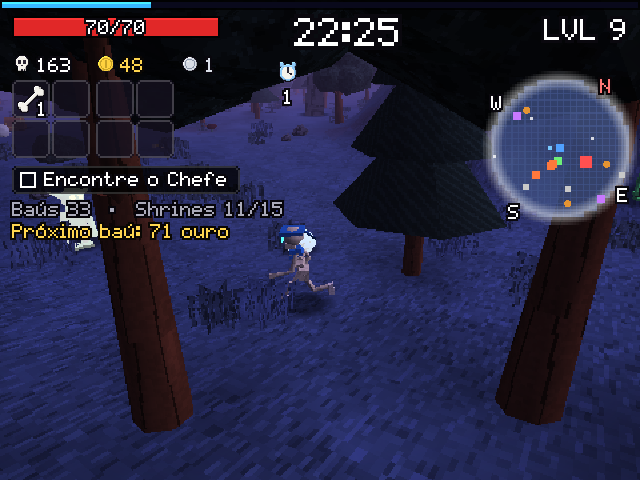
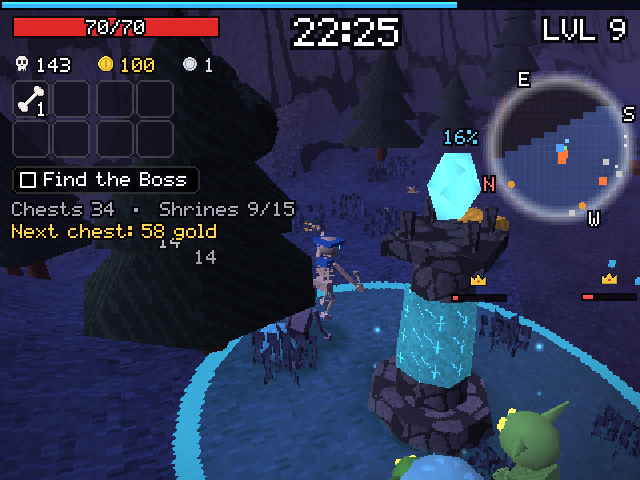
PortMaster cover + English screenshots; docs images renamed to English
Claude-Session: https://claude.ai/code/session_012LUGmV68JwyArHvSy1zQbs

diff --git a/src/main_desktop.cpp b/src/main_desktop.cpp
@@ -123,32 +123,95 @@ static void showcase(const std::string& file, const std::string& name, const std
     }
     u.panel(u.W * 0.5f - u.textW(name) - 10, 4, u.textW(name) * 2 + 20, 30, Col(10, 8, 16, 170), Col(255, 214, 80, 120));
     u.text(u.W * 0.5f, 8, name, 2, Col(255, 214, 80), AL_CENTER);
-    u.text(u.W - 6, u.H - 12, "Omni Bonk Mobile - render em tempo real (GLES 3.0)", 1, Col(255, 255, 255, 150), AL_RIGHT);
+    u.text(u.W - 6, u.H - 12, "Omni Bonk - real-time render (GLES 3.0)", 1, Col(255, 255, 255, 150), AL_RIGHT);
     gR.uiFlush();
     glFinish();
   }
   shot(file);
 }
 
+
+// ---------------------------------------------------------------- PortMaster cover (640x480): heroes vs the horde, with the logo
+static void coverShot() {
+  Game& g = gApp.game;
+  RunConfig c; c.map = MAP_FOREST; c.tier = 0; c.character = 0; c.seed = 31; c.godMode = true;
+  g.start(c);
+  g.enemies.clear(); g.inters.clear(); g.pickups.clear(); g.banners.clear(); g.texts.clear(); g.parts.clear();
+  g.fovDeg = 50; g.stormK = 0;
+  World& w = g.world;
+  w.pal.fogDensity *= 0.5f;
+  w.props.erase(std::remove_if(w.props.begin(), w.props.end(), [&](const PropInst& p) { return fabsf(p.pos.x) < 9 && p.pos.z > -14 && p.pos.z < 20 && !p.grass; }), w.props.end());
+  w.buildGrid(); g.worldGen++;
+  float h0 = w.T.height(0, 0);
+  g.P.pos = v3(0, -100, 0);
+  g.camEye = v3(0, h0 + 1.5f, -8.5f); g.camTgt = v3(0, h0 + 2.7f, 6.f);
+  gR.set.renderScale = 1.f; gR.set.vignette = 0.5f;
+  u32 rs = 12345; auto rnd = [&]() { rs = rs * 1664525u + 1013904223u; return (rs >> 8) / 16777216.f; };
+  struct Spawn { int model; float scale, x, z, yaw, t; int clip; };
+  std::vector<Spawn> sp;
+  auto addEnemy = [&](int e, float x, float z, float k = 1.f) { const EnemyDef& d = gEnemies[e]; sp.push_back({d.model, d.scale * k, x, z, PI + (rnd() - 0.5f) * 0.9f, rnd(), CL_MOVE}); };
+  const int horde[] = {E_SLIME, E_GOBLIN, E_BEE, E_GOBLIN_STRONG, E_BOOMER, E_GHOUL, E_SKELETON, E_SKELETON_ARMORED, E_GHOST, E_ZOMBIE, E_GOBLIN_TANK, E_MUMMY, E_HEAD};
+  for (int i = 0; i < 70; i++) {
+    float a = (rnd() - 0.5f) * 2.0f, r = 4.5f + rnd() * 15.f;
+    addEnemy(horde[(int)(rnd() * 13) % 13], sinf(a) * r * 1.15f, 3.5f + cosf(a) * r * 0.95f);
+  }
+  addEnemy(E_B_BIGBOB, 4.2f, 15.f, 1.f);
+  // the five heroes, center one in front
+  for (int i = 0; i < C_COUNT; i++) {
+    int off = i - 2; const CharDef& cd = gChars[i == 2 ? 0 : (i < 2 ? i + 1 : i)];
+    sp.push_back({cd.model, 1.75f, off * 2.35f, fabsf((float)off) * 0.9f - 1.4f, PI - off * 0.12f, 0.25f, CL_IDLE});
+  }
+  std::sort(sp.begin(), sp.end(), [](const Spawn& a, const Spawn& b) { return a.z > b.z; });
+  for (int pass = 0; pass < 2; pass++) {
+    gApp.ui.begin(W, H, 1.f, gApp.plat, 0.016f);
+    gR.beginFrame(W, H, 0.016f);
+    g.render(gR);
+    for (auto& e : sp) {
+      const ModelInfo& mi = gModels.info[e.model];
+      v3 p(e.x, w.T.height(e.x, e.z) - mi.minY * e.scale + (mi.minY < -0.01f ? 0.25f : 0.f), e.z);
+      gR.model(e.model, modelFrame(e.model, e.clip, e.t, 12), p, q4::yaw(e.yaw), v3(e.scale, e.scale, e.scale), 0, Col(255, 255, 255, 0));
+      gR.decal(v3(p.x, w.T.height(e.x, e.z), p.z), mi.radius * e.scale * 1.1f + 0.3f, SP_SHADOW, Col(0, 0, 0, 120));
+    }
+    gR.renderScene(true);
+    UI& u = gApp.ui;
+    float cx = u.W * 0.5f;
+    // logo: layered shadow, gold face
+    const char* logo = "OMNI BONK"; float sc = 5.5f, ly = 8;
+    for (int k = 4; k >= 1; k--) u.text(cx + k, ly + k + 1, logo, sc, Col(30, 8, 50, 255), AL_CENTER);
+    for (int dx = -1; dx <= 1; dx++) for (int dy = -1; dy <= 1; dy++) u.text(cx + dx, ly + dy, logo, sc, Col(20, 8, 30, 255), AL_CENTER);
+    u.text(cx, ly, logo, sc, Col(255, 214, 80), AL_CENTER);
+    u.text(cx, ly + 12 * sc + 4, "SURVIVE THE BONK!", 1.5f, Col(255, 255, 255), AL_CENTER);
+    // ribbon + badges
+    u.panel(0, u.H - 28, u.W, 28, Col(14, 8, 28, 225), Col(255, 214, 80, 160));
+    u.text(8, u.H - 24, "FAN TRIBUTE TO MEGABONK", 1, Col(255, 214, 80));
+    u.text(8, u.H - 13, "Non-commercial  -  original assets", 1, Col(200, 190, 230));
+    u.panel(u.W - 110, u.H - 23, 102, 18, Col(60, 150, 70, 245), Col(255, 255, 255, 190));
+    u.text(u.W - 59, u.H - 18, "READY TO RUN", 1, Col(255, 255, 255), AL_CENTER);
+    gR.uiFlush();
+    glFinish();
+  }
+  shot("cover");
+}
+
 static void artSheets() {
   auto E = [](int e, float sc = 1, int clip = CL_MOVE, float t = 0.33f) { const EnemyDef& d = gEnemies[e]; return ShowItem{d.model, clip, t, sc * d.scale, d.name, Col(255, 255, 255, 0)}; };
-  showcase("art_01_inimigos_forest", "Inimigos - Forest", {E(E_SLIME), E(E_GOBLIN), E(E_BEE), E(E_GOBLIN_STRONG), E(E_BOOMER), E(E_GOLEM), E(E_GOBLIN_TANK), E(E_GHOUL), E(E_SKELETON), E(E_SKELETON_ARMORED)}, MAP_FOREST, 0, 2.6f);
-  showcase("art_02_inimigos_desert", "Inimigos - Desert", {E(E_TUMBLEBONE), E(E_MUMMY), E(E_WISP), E(E_CACTUS), E(E_SCORPION), E(E_SKELETON_DUSTY), E(E_SKELETON_ARMORED_DUSTY), E(E_SCORPION_BIG), E(E_MUMMY_TANK), E(E_MUMMY_ANCIENT)}, MAP_DESERT, 0, 2.8f);
-  showcase("art_03_inimigos_graveyard", "Inimigos - Graveyard e especiais", {E(E_GHOST), E(E_HEAD), E(E_ZOMBIE), E(E_GHOST_GREATER), E(E_GHOST_PURPLE), E(E_GHOST_RED), E(E_SKELETON_GOLD), E(E_SKELETON_XP), E(E_SWARMGHOST)}, MAP_GRAVEYARD, 0, 2.8f);
-  showcase("art_04_minichefes", "Minichefes", {E(E_MB_STONEGOLEM), E(E_MB_CHUNKHAM), E(E_MB_SANDGOLEM), E(E_MB_SCORPIONUSSY), E(E_MB_GHOSTHAM), E(E_MB_SKELETONKING)}, MAP_FOREST, 1, 5.0f);
-  showcase("art_05_chefes", "Chefes", {E(E_B_LILBARK, 1, CL_IDLE), E(E_B_CHADBARK), E(E_B_BARKVADER), E(E_B_LILANUBIS), E(E_B_ANUBRUH), E(E_B_JUGEANUBIS), E(E_B_BIGBOB), E(E_B_GHOSTKING, 0.75f)}, MAP_FOREST, 2, 6.0f);
+  showcase("art_01_enemies_forest", "Enemies - Forest", {E(E_SLIME), E(E_GOBLIN), E(E_BEE), E(E_GOBLIN_STRONG), E(E_BOOMER), E(E_GOLEM), E(E_GOBLIN_TANK), E(E_GHOUL), E(E_SKELETON), E(E_SKELETON_ARMORED)}, MAP_FOREST, 0, 2.6f);
+  showcase("art_02_enemies_desert", "Enemies - Desert", {E(E_TUMBLEBONE), E(E_MUMMY), E(E_WISP), E(E_CACTUS), E(E_SCORPION), E(E_SKELETON_DUSTY), E(E_SKELETON_ARMORED_DUSTY), E(E_SCORPION_BIG), E(E_MUMMY_TANK), E(E_MUMMY_ANCIENT)}, MAP_DESERT, 0, 2.8f);
+  showcase("art_03_enemies_graveyard", "Enemies - Graveyard and specials", {E(E_GHOST), E(E_HEAD), E(E_ZOMBIE), E(E_GHOST_GREATER), E(E_GHOST_PURPLE), E(E_GHOST_RED), E(E_SKELETON_GOLD), E(E_SKELETON_XP), E(E_SWARMGHOST)}, MAP_GRAVEYARD, 0, 2.8f);
+  showcase("art_04_minibosses", "Minibosses", {E(E_MB_STONEGOLEM), E(E_MB_CHUNKHAM), E(E_MB_SANDGOLEM), E(E_MB_SCORPIONUSSY), E(E_MB_GHOSTHAM), E(E_MB_SKELETONKING)}, MAP_FOREST, 1, 5.0f);
+  showcase("art_05_bosses", "Bosses", {E(E_B_LILBARK, 1, CL_IDLE), E(E_B_CHADBARK), E(E_B_BARKVADER), E(E_B_LILANUBIS), E(E_B_ANUBRUH), E(E_B_JUGEANUBIS), E(E_B_BIGBOB), E(E_B_GHOSTKING, 0.75f)}, MAP_FOREST, 2, 6.0f);
   std::vector<ShowItem> chars;
   for (int i = 0; i < C_COUNT; i++) chars.push_back({gChars[i].model, CL_IDLE, 0.25f, 1.6f, std::string(gChars[i].name) + " / " + gWeapons[gChars[i].weapon].name, Col(255, 255, 255, 0)});
-  showcase("art_06_personagens", "Personagens jogaveis", chars, MAP_FOREST, 0, 3.4f);
+  showcase("art_06_characters", "Playable characters", chars, MAP_FOREST, 0, 3.4f);
   // stepped animation strip: one character run cycle, consecutive 12 fps frames
   std::vector<ShowItem> strip;
   for (int f = 0; f < 6; f++) strip.push_back({M_NINJA, CL_MOVE, f / 12.f, 1.6f, fmt("frame %d - %.0f ms", f, f * 1000 / 12.f), Col(255, 255, 255, 0)});
-  showcase("art_07_animacao_stepped", "Animacao stepped 12 FPS - corrida do Ninja", strip, MAP_FOREST, 0, 2.6f);
+  showcase("art_07_stepped_animation", "Stepped 12 FPS animation - Ninja run cycle", strip, MAP_FOREST, 0, 2.6f);
   auto I = [](int m, const char* n, Col ta = Col(255, 255, 255, 0), int clip = CL_IDLE, float t = 0.3f) { return ShowItem{m, clip, t, 1.f, n, ta}; };
-  showcase("art_08_baus_shrines_torres", "Baus, shrines e torres de upgrade", {I(M_CHEST, "Baú"), I(M_CHEST_GOLD, "Baú Dourado"), I(M_CHEST, "Baú aberto", Col(255, 255, 255, 0), CL_SPECIAL, 1.0f), I(M_SHRINE_CHARGE, "Charge Shrine"), I(M_SHRINE_GREED, "Greed Shrine"), I(M_SHRINE_CURSED, "Cursed Shrine"), I(M_SHRINE_CHALLENGE, "Challenge Shrine"), I(M_MOAI, "Moai"), I(M_SHADY, "Shady Guy", hexc(kRarityColor[R_LEGENDARY], 0)), I(M_MICROWAVE, "Microwave"), I(M_SHRINE_SUCC, "Shrine of Succ")}, MAP_FOREST, 0, 3.4f);
-  showcase("art_09_portais_potes_chaves", "Portais, potes e chaves", {I(M_PORTAL_BOSS, "Portal do Chefe"), I(M_PORTAL_EXIT, "Portal de Saída"), I(M_POT, "Pote"), I(M_POT_BIG, "Pote Grande"), I(M_POT_SILVER, "Pote de Prata"), I(M_PUMPKIN, "Abóbora"), I(M_TUMBLEWEED, "Tumbleweed"), I(M_CRYPT_KEY, "Chave da Cripta"), I(M_ALTAR, "Altar")}, MAP_GRAVEYARD, 0, 3.6f);
+  showcase("art_08_chests_shrines_towers", "Chests, shrines and upgrade towers", {I(M_CHEST, "Chest"), I(M_CHEST_GOLD, "Golden Chest"), I(M_CHEST, "Open Chest", Col(255, 255, 255, 0), CL_SPECIAL, 1.0f), I(M_SHRINE_CHARGE, "Charge Shrine"), I(M_SHRINE_GREED, "Greed Shrine"), I(M_SHRINE_CURSED, "Cursed Shrine"), I(M_SHRINE_CHALLENGE, "Challenge Shrine"), I(M_MOAI, "Moai"), I(M_SHADY, "Shady Guy", hexc(kRarityColor[R_LEGENDARY], 0)), I(M_MICROWAVE, "Microwave"), I(M_SHRINE_SUCC, "Shrine of Succ")}, MAP_FOREST, 0, 3.4f);
+  showcase("art_09_portals_pots_keys", "Portals, pots and keys", {I(M_PORTAL_BOSS, "Boss Portal"), I(M_PORTAL_EXIT, "Exit Portal"), I(M_POT, "Pot"), I(M_POT_BIG, "Big Pot"), I(M_POT_SILVER, "Silver Pot"), I(M_PUMPKIN, "Pumpkin"), I(M_TUMBLEWEED, "Tumbleweed"), I(M_CRYPT_KEY, "Crypt Key"), I(M_ALTAR, "Altar")}, MAP_GRAVEYARD, 0, 3.6f);
   auto Pp = [](int m, const char* n, float s = 1) { return ShowItem{m, CL_IDLE, 0, s, n, Col(255, 255, 255, 0)}; };
-  showcase("art_10_pickups_powerups", "Pickups e powerups", {Pp(M_XP_SMALL, "XP", 3.4f), Pp(M_XP_MED, "XP+", 3.2f), Pp(M_XP_BIG, "XP++", 3.0f), Pp(M_GOLD_COIN, "Ouro", 3.2f), Pp(M_SILVER_COIN, "Prata", 3.2f), Pp(M_BORGAR, "Borgar", 3.0f), Pp(M_PU_SHIELD, "Escudo", 2.4f), Pp(M_PU_CLOCK, "Relógio", 2.4f), Pp(M_PU_GOLD, "Ouro x2", 2.4f), Pp(M_PU_RAGE, "Fúria", 2.4f), Pp(M_PU_MAGNET, "Ímã", 2.4f), Pp(M_PU_NUKE, "Bomba", 2.4f)}, MAP_DESERT, 0, 1.9f);
+  showcase("art_10_pickups_powerups", "Pickups and powerups", {Pp(M_XP_SMALL, "XP", 3.4f), Pp(M_XP_MED, "XP+", 3.2f), Pp(M_XP_BIG, "XP++", 3.0f), Pp(M_GOLD_COIN, "Gold", 3.2f), Pp(M_SILVER_COIN, "Silver", 3.2f), Pp(M_BORGAR, "Borgar", 3.0f), Pp(M_PU_SHIELD, "Shield", 2.4f), Pp(M_PU_CLOCK, "Clock", 2.4f), Pp(M_PU_GOLD, "Gold x2", 2.4f), Pp(M_PU_RAGE, "Rage", 2.4f), Pp(M_PU_MAGNET, "Magnet", 2.4f), Pp(M_PU_NUKE, "Bomb", 2.4f)}, MAP_DESERT, 0, 1.9f);
   // UI atlas (icons + font) and texture layers
   writePng(outDir + "/art_11_atlas_icones_fonte.png", gR.atlas.px.data(), ATLAS_SIZE, ATLAS_SIZE, false);
   std::vector<u8> layers; artBuildLayers(layers);
@@ -195,14 +258,14 @@ static void iconShot() {
 static void uiShots() {
   App& a = gApp;
   a.selMap = MAP_FOREST; a.selChar = C_NINJA; a.scr = SCR_TITLE; for (int i = 0; i < 240; i++) a.updateMenuGame(1 / 30.f);
-  frame(1 / 30.f, 3); shot("ui_01_titulo");
-  a.scr = SCR_CHARS; a.selChar = C_NINJA; frame(1 / 30.f, 2); shot("ui_02_personagens");
-  a.scr = SCR_MAP; a.selMap = MAP_FOREST; a.selTier = 1; frame(1 / 30.f, 2); shot("ui_03_mapa_tier_tempo");
-  a.scr = SCR_SETTINGS; a.settingsTab = 0; frame(1 / 30.f, 2); shot("ui_04_config_jogo");
-  a.settingsTab = 1; frame(1 / 30.f, 2); shot("ui_05_config_graficos");
-  a.scr = SCR_CATALOG; a.catTab = 2; frame(1 / 30.f, 2); shot("ui_06_catalogo_itens");
-  a.catTab = 0; frame(1 / 30.f, 2); shot("ui_07_catalogo_armas");
-  a.scr = SCR_SHOP; frame(1 / 30.f, 2); shot("ui_08_loja");
+  frame(1 / 30.f, 3); shot("ui_01_title");
+  a.scr = SCR_CHARS; a.selChar = C_NINJA; frame(1 / 30.f, 2); shot("ui_02_characters");
+  a.scr = SCR_MAP; a.selMap = MAP_FOREST; a.selTier = 1; frame(1 / 30.f, 2); shot("ui_03_map_tier_time");
+  a.scr = SCR_SETTINGS; a.settingsTab = 0; frame(1 / 30.f, 2); shot("ui_04_settings_game");
+  a.settingsTab = 1; frame(1 / 30.f, 2); shot("ui_05_settings_graphics");
+  a.scr = SCR_CATALOG; a.catTab = 2; frame(1 / 30.f, 2); shot("ui_06_catalog_items");
+  a.catTab = 0; frame(1 / 30.f, 2); shot("ui_07_catalog_weapons");
+  a.scr = SCR_SHOP; frame(1 / 30.f, 2); shot("ui_08_shop");
 }
 
 // ---------------------------------------------------------------- gamepad scenario (handheld UI)
@@ -217,53 +280,53 @@ static void padScenario() {
   App& a = gApp;
   a.testMode = false; a.set.vibration = false;
   a.selMap = MAP_FOREST; a.selChar = C_FOX; a.scr = SCR_TITLE; for (int i = 0; i < 240; i++) a.updateMenuGame(1 / 30.f);
-  padFrames(4); padLog("title"); shot("pad_01_titulo");
-  press(PB_DOWN); press(PB_DOWN); press(PB_DOWN); press(PB_LEFT); padLog("title: 3x down, left"); shot("pad_02_titulo_config");
-  press(PB_A); padFrames(6); padLog("settings"); shot("pad_03_config");
+  padFrames(4); padLog("title"); shot("pad_01_title");
+  press(PB_DOWN); press(PB_DOWN); press(PB_DOWN); press(PB_LEFT); padLog("title: 3x down, left"); shot("pad_02_title_config");
+  press(PB_A); padFrames(6); padLog("settings"); shot("pad_03_settings");
   for (int i = 0; i < 3; i++) press(PB_DOWN);
-  press(PB_RIGHT); padLog("settings: adjust"); shot("pad_04_config_ajuste");
+  press(PB_RIGHT); padLog("settings: adjust"); shot("pad_04_settings_adjust");
   for (int i = 0; i < 9; i++) press(PB_DOWN);
-  padLog("settings: scrolled"); shot("pad_05_config_rolagem");
-  press(PB_R1); padFrames(4); padLog("settings: R1 tab"); shot("pad_06_config_aba2");
-  press(PB_R1); padFrames(4); shot("pad_07_config_controles");
+  padLog("settings: scrolled"); shot("pad_05_settings_scroll");
+  press(PB_R1); padFrames(4); padLog("settings: R1 tab"); shot("pad_06_settings_tab2");
+  press(PB_R1); padFrames(4); shot("pad_07_settings_controls");
   press(PB_B); padFrames(6); padLog("back to title");
-  press(PB_DOWN); press(PB_A); padFrames(6); padLog("catalog"); shot("pad_08_catalogo");
+  press(PB_DOWN); press(PB_A); padFrames(6); padLog("catalog"); shot("pad_08_catalog");
   press(PB_R1); press(PB_R1); press(PB_DOWN); for (int i = 0; i < 9; i++) press(PB_DOWN); press(PB_RIGHT); press(PB_RIGHT);
-  padLog("catalog: items scrolled"); shot("pad_09_catalogo_itens");
-  press(PB_R1); press(PB_DOWN); press(PB_DOWN); for (int i = 0; i < 20; i++) press(PB_DOWN, 2, 2); padLog("catalog: enemies"); shot("pad_10_catalogo_inimigos");
+  padLog("catalog: items scrolled"); shot("pad_09_catalog_items");
+  press(PB_R1); press(PB_DOWN); press(PB_DOWN); for (int i = 0; i < 20; i++) press(PB_DOWN, 2, 2); padLog("catalog: enemies"); shot("pad_10_catalog_enemies");
   press(PB_B); padFrames(6);
-  press(PB_DOWN); press(PB_DOWN); press(PB_A); padFrames(6); padLog("shop"); shot("pad_11_loja");
+  press(PB_DOWN); press(PB_DOWN); press(PB_A); padFrames(6); padLog("shop"); shot("pad_11_shop");
   press(PB_B); padFrames(6);
-  press(PB_DOWN); press(PB_DOWN); press(PB_DOWN); press(PB_A); padFrames(6); padLog("about"); shot("pad_12_sobre"); press(PB_RIGHT); press(PB_A); padFrames(6); padLog("credits"); shot("pad_12b_creditos"); press(PB_B); padFrames(4);
+  press(PB_DOWN); press(PB_DOWN); press(PB_DOWN); press(PB_A); padFrames(6); padLog("about"); shot("pad_12_about"); press(PB_RIGHT); press(PB_A); padFrames(6); padLog("credits"); shot("pad_12b_credits"); press(PB_B); padFrames(4);
   press(PB_B); padFrames(6);
-  press(PB_DOWN); press(PB_DOWN); press(PB_DOWN); press(PB_RIGHT); press(PB_A); padFrames(6); padLog("quit dialog"); shot("pad_13_sair");
+  press(PB_DOWN); press(PB_DOWN); press(PB_DOWN); press(PB_RIGHT); press(PB_A); padFrames(6); padLog("quit dialog"); shot("pad_13_quit");
   press(PB_A); padFrames(6); padLog("quit dialog: no");
-  press(PB_A); padFrames(8); padLog("chars"); shot("pad_14_personagens");
-  press(PB_RIGHT); press(PB_RIGHT); padFrames(30); padLog("chars: 2x right"); shot("pad_15_personagens_calcium");
-  press(PB_A); padFrames(8); padLog("map"); shot("pad_16_mapa");
+  press(PB_A); padFrames(8); padLog("chars"); shot("pad_14_characters");
+  press(PB_RIGHT); press(PB_RIGHT); padFrames(30); padLog("chars: 2x right"); shot("pad_15_characters_calcium");
+  press(PB_A); padFrames(8); padLog("map"); shot("pad_16_map");
   press(PB_DOWN); press(PB_RIGHT); press(PB_A); press(PB_DOWN); press(PB_RIGHT); press(PB_RIGHT); padLog("map: tier2, time +2"); 
-  press(PB_DOWN); shot("pad_17_mapa_tempo");
+  press(PB_DOWN); shot("pad_17_map_time");
   press(PB_START); padFrames(20); padLog("game start");
   a.game.cfg.godMode = true;
   gPad.ly = -1; padFrames(40); gPad.buttons |= PB_A; padFrames(3); gPad.buttons &= ~PB_A; gPad.rx = 0.8f; padFrames(25); gPad.rx = 0; padFrames(30); gPad.ly = 0;
-  padLog("game: moved"); shot("pad_18_jogo_inicio");
+  padLog("game: moved"); shot("pad_18_game_start");
   a.game.autoPilot = true; for (int i = 0; i < 30 * 150; i++) { a.game.update(1 / 30.f); if (a.game.state != GS_PLAY) { a.game.pendingLevels = 0; a.game.state = GS_PLAY; } }
   a.game.autoPilot = false; a.game.state = GS_PLAY; a.game.pendingLevels = 0; padFrames(6);
-  padLog("game: 2.5 min"); shot("pad_19_jogo_hud");
-  press(PB_START); padFrames(16); padLog("pause"); shot("pad_20_pausa");
+  padLog("game: 2.5 min"); shot("pad_19_game_hud");
+  press(PB_START); padFrames(16); padLog("pause"); shot("pad_20_pause");
   press(PB_RIGHT); padLog("pause: right"); press(PB_B); padFrames(6); padLog("pause: B resumes");
-  press(PB_Y); padFrames(16); padLog("map (Y)"); shot("pad_21_mapa_completo");
+  press(PB_Y); padFrames(16); padLog("map (Y)"); shot("pad_21_full_map");
   press(PB_B); padFrames(6); padLog("map: B closes");
   Game& g = a.game;
   g.genLevelOffers(); g.pendingLevels = 1; g.state = GS_LEVELUP; gPad.buttons |= PB_A; padFrames(4); gPad.buttons &= ~PB_A; padFrames(14); padLog("levelup (A mash locked)"); shot("pad_22_level_up");
-  press(PB_RIGHT); padLog("levelup: right"); shot("pad_23_level_up_foco"); press(PB_A); padFrames(4); padLog("levelup: picked");
+  press(PB_RIGHT); padLog("levelup: right"); shot("pad_23_level_up_focus"); press(PB_A); padFrames(4); padLog("levelup: picked");
   g.state = GS_PLAY; for (auto& it : g.inters) if (it.type == I_CHEST && !it.used) { g.openChest(it, true); break; }
-  g.chestAnim = 2; padFrames(16); padLog("chest"); shot("pad_24_bau"); press(PB_A); padFrames(4); padLog("chest: taken");
+  g.chestAnim = 2; padFrames(16); padLog("chest"); shot("pad_24_chest"); press(PB_A); padFrames(4); padLog("chest: taken");
   g.state = GS_PLAY; g.genShrineOffers(false); g.state = GS_SHRINE; padFrames(16); shot("pad_25_shrine"); press(PB_A); padFrames(4); padLog("shrine: picked");
   for (auto& it : g.inters) if (it.type == I_SHADY) { g.curInter = (int)(&it - &g.inters[0]); g.P.gold = 5000; g.state = GS_SHOP; break; }
   padFrames(16); padLog("shady"); shot("pad_26_shady"); press(PB_B); padFrames(4); padLog("shady: B exits");
-  g.banner("Qualidade automática", "FPS 31 - escala de render 65%", Col(255, 214, 80), 3.f); padFrames(12); shot("pad_27_banner");
-  g.state = GS_DEAD; g.deathT = 0; padFrames(50); padLog("dead"); shot("pad_28_fim");
+  g.banner(tr("Auto quality"), fmt(tr("FPS %.0f - render scale %d%%"), 31.f, 65), Col(255, 214, 80), 3.f); padFrames(12); shot("pad_27_banner");
+  g.state = GS_DEAD; g.deathT = 0; padFrames(50); padLog("dead"); shot("pad_28_end");
   press(PB_RIGHT); press(PB_A); padFrames(10); padLog("end: menu");
 }
 
@@ -316,7 +379,7 @@ static void gameShots(int map, int tier, int ch, const std::string& tag, float s
   a.game.state = GS_PLAY; a.game.autoPilot = true;
   frame(1 / 30.f, 4);
   a.game.autoPilot = false; a.game.state = GS_PLAY; a.game.pendingLevels = 0; a.game.P.xp = 0; frame(1 / 60.f, 1);
-  shot("jogo_" + tag);
+  shot("game_" + tag);
 }
 
 static void balance(int map, int ch, float minutes, u32 seed) {
@@ -387,6 +450,7 @@ int main(int argc, char** argv) {
   else if (scenario == "perf") perfScenario(bmap, bchar, bmin);
   else if (scenario == "art") artSheets();
   else if (scenario == "icon") iconShot();
+  else if (scenario == "cover") coverShot();
   else if (scenario == "balance") balance(bmap, bchar, bmin, seed);
   else if (scenario == "smoke") { startGame(bmap, 0, bchar, true, seed); simGame(gApp.game, 5); frame(1 / 30.f, 2); shot("smoke"); }
   else if (scenario == "game") {
@@ -401,12 +465,12 @@ int main(int argc, char** argv) {
     Game& g = a.game; g.autoPilot = false; g.state = GS_PLAY;
     g.genLevelOffers(); g.state = GS_LEVELUP; frame(1 / 30.f, 2); shot("ui_09_level_up");
     g.state = GS_PLAY; for (auto& it : g.inters) if (it.type == I_CHEST && !it.used) { g.openChest(it, true); break; }
-    g.chestAnim = 2; frame(1 / 30.f, 2); shot("ui_10_bau");
+    g.chestAnim = 2; frame(1 / 30.f, 2); shot("ui_10_chest");
     g.state = GS_PLAY; g.genShrineOffers(false); g.state = GS_SHRINE; frame(1 / 30.f, 2); shot("ui_11_charge_shrine");
-    g.state = GS_PAUSE; a.showMap = false; frame(1 / 30.f, 2); shot("ui_12_pausa_build");
-    a.showMap = true; frame(1 / 30.f, 2); shot("ui_13_mapa_completo"); a.showMap = false;
-    a.set.dpsMeter = true; g.state = GS_PLAY; frame(1 / 30.f, 3); shot("ui_14_hud_dps_contadores");
-    g.state = GS_DEAD; g.deathT = 2; frame(1 / 30.f, 2); shot("ui_15_fim_de_run");
+    g.state = GS_PAUSE; a.showMap = false; frame(1 / 30.f, 2); shot("ui_12_pause_build");
+    a.showMap = true; frame(1 / 30.f, 2); shot("ui_13_full_map"); a.showMap = false;
+    a.set.dpsMeter = true; g.state = GS_PLAY; frame(1 / 30.f, 3); shot("ui_14_hud_dps_counters");
+    g.state = GS_DEAD; g.deathT = 2; frame(1 / 30.f, 2); shot("ui_15_end_of_run");
   }
   LOGI("done");
   return 0;

diff --git a/README.md b/README.md
@@ -4,13 +4,13 @@ Roguelike de sobrevivência em 3D para Android, inspirado no **Megabonk** (vedin
 
 > Projeto de fã, sem vínculo com o Megabonk nem com o autor. Nenhum asset do jogo original é usado: modelos, texturas, ícones, fonte, música e efeitos sonoros são gerados por código no estilo do original.
 
-![Personagens](docs/art_06_personagens.jpg)
+![Personagens](docs/art_06_characters.jpg)
 
 | | |
 |---|---|
-| ![Forest](docs/jogo_02_forest_green_fox_min8.jpg) | ![Desert](docs/jogo_03_desert_calcium_min6.jpg) |
-| ![Inimigos](docs/art_01_inimigos_forest.jpg) | ![Chefes](docs/art_05_chefes.jpg) |
-| ![Mapa e tempo](docs/ui_03_mapa_tier_tempo.jpg) | |
+| ![Forest](docs/game_02_forest_green_fox_min8.jpg) | ![Desert](docs/game_03_desert_calcium_min6.jpg) |
+| ![Inimigos](docs/art_01_enemies_forest.jpg) | ![Chefes](docs/art_05_bosses.jpg) |
+| ![Mapa e tempo](docs/ui_03_map_tier_time.jpg) | |
 
 ## Conteúdo
 
